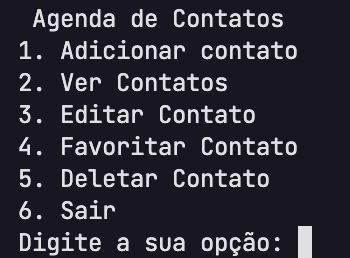
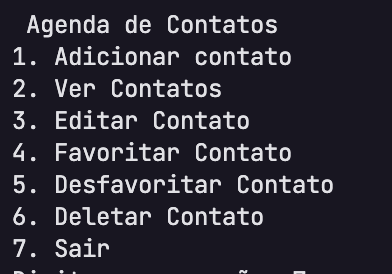
atualização do menu do Readme

diff --git a/README.md b/README.md
@@ -1,14 +1,15 @@
 # Challenge01 - Agenda de Contatos
 Desafio da RocketSeat - Desenvolver uma agenda de contatos usando os conceitos do módulo 1
 
-Esta agenda de contatos foi desenvolvida para uso no terminal.
-Ela possui as funciondalides: 
+Esta agenda de contatos foi desenvolvida para uso no terminal, durante o curso da RocketSeat de Python.
+Ela possui as seguintes funcionalidades:
 1. Adição de Contato
 2. Ver Contato
 3. Editar Contato
 4. Favoritar Contato
-5. Deletar Contato
-6. Sair 
+5. Desfavoritar Contato
+6. Deletar Contato
+7. Sair 
 
 ## Imagem da aplicação rodando no terminal: 
 ### Menu da aplicação:
